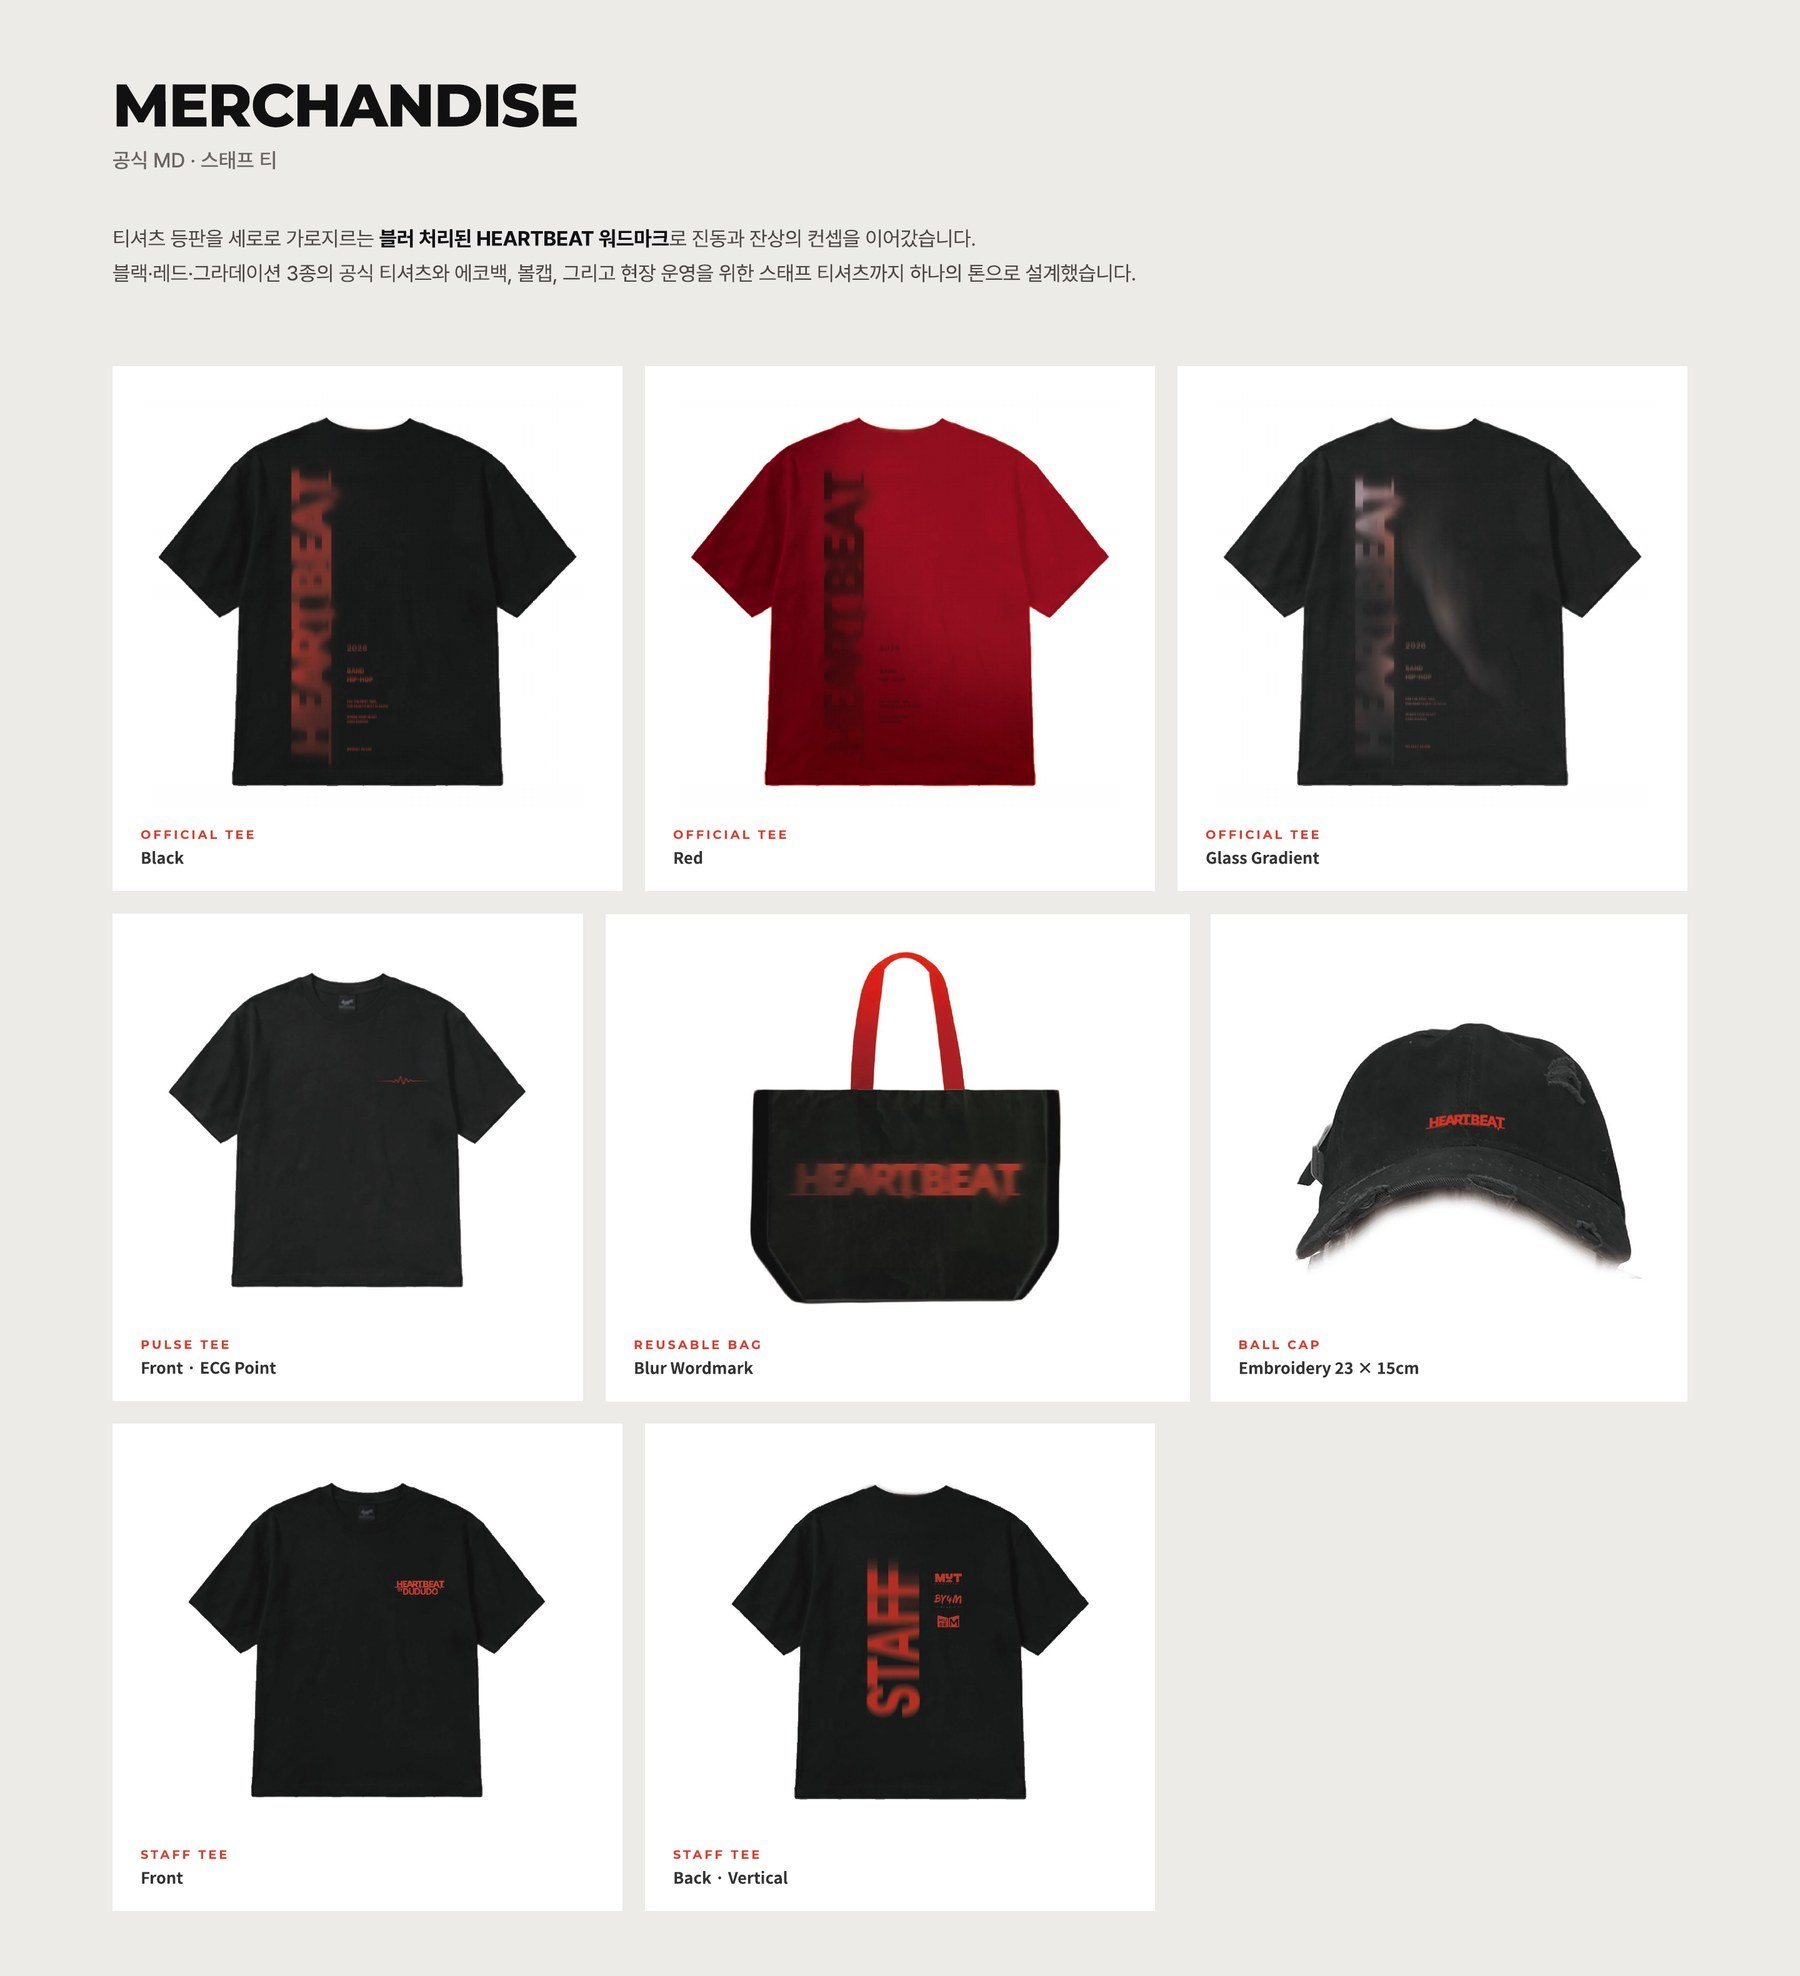
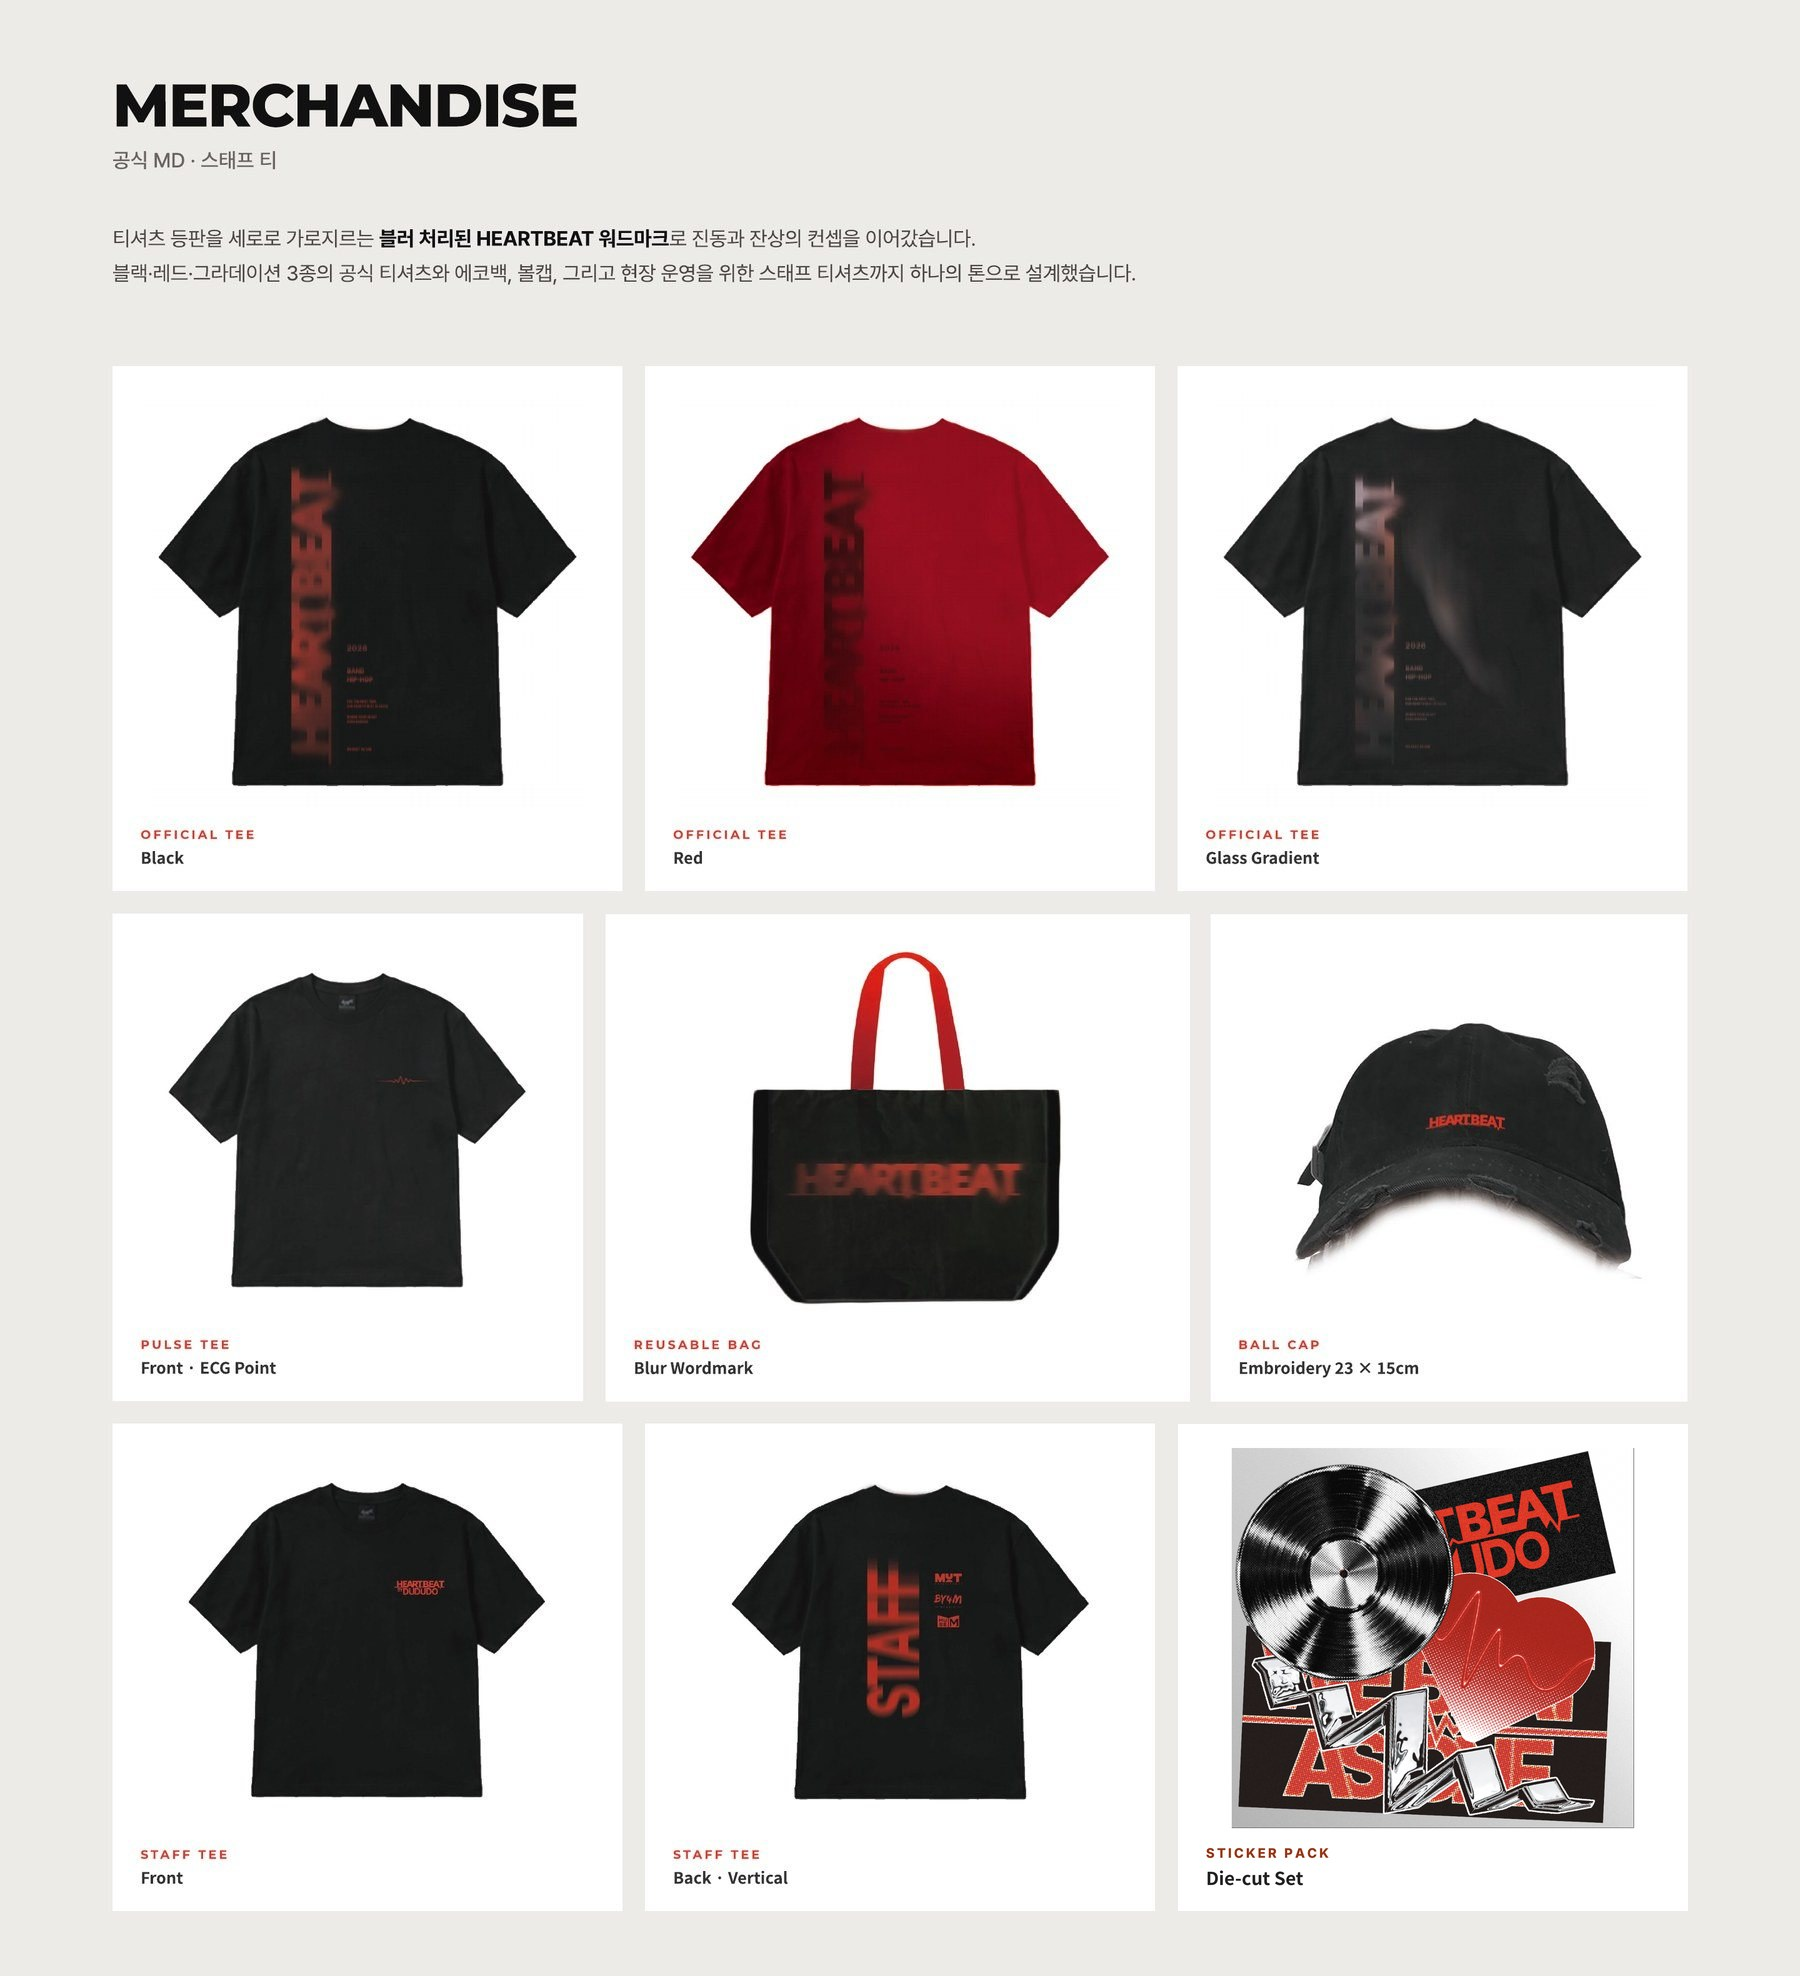
HEARTBEAT: sticker pack moved into merch grid; add Hologram Zone to On-site
Claude-Session: https://claude.ai/code/session_013oSDXvmgYoZt2EAcoYnXYj

Changed region(s): [[0.6844, 0.71, 0.9022, 0.957]]

diff --git a/index.html b/index.html
@@ -3967,6 +3967,22 @@
   var HBS_ZONES = ['외부','F&B존','입장 게이트','티켓존','내부 1F','내부 B1F','출력물'];
   /* keep long tent/railing banners together at the end of each zone so they pair up in short rows */
   HBS_ITEMS = HBS_ITEMS.map(function(r, i){ return [r, i]; }).sort(function(x, y){ var zx = HBS_ZONES.indexOf(x[0][0]), zy = HBS_ZONES.indexOf(y[0][0]); if (zx !== zy) return zx - zy; var wx = x[0][6] > 3.4 ? 1 : 0, wy = y[0][6] > 3.4 ? 1 : 0; return wx - wy || x[1] - y[1]; }).map(function(p){ return p[0]; });
+  /* HEARTBEAT · Hologram zone: booth exterior sheet design + a pre-event test of the
+     inner playback image on the real hologram unit. Design stage, so captions say so. */
+  var hbHoloBlock = {
+    custom: '<div class="cosmos-block">' +
+      '<div class="cosmos-head">' +
+        '<div class="cosmos-eyebrow">On-site · Hologram Zone</div>' +
+        '<h3 class="cosmos-title">HOLOGRAM ZONE</h3>' +
+        '<p class="cosmos-copy">홀로그램 부스의 외부 시트지를 디자인하고, 기기 안에서 송출될 영상 이미지도 제작했습니다. 행사 전에 실제 홀로그램 기기에 넣어 송출 화면을 미리 테스트했고, 부스 시트지는 현재 제작 단계입니다.</p>' +
+      '</div>' +
+      '<div class="cx-print">' +
+        '<figure class="cx-print-item"><div class="cx-print-img"><img src="' + HB + 'hb-holo-test.jpg" alt="홀로그램 기기에 내부 송출 영상을 넣어 테스트한 사진" loading="lazy" decoding="async"></div><figcaption><b>HOLOGRAM UNIT · TEST</b>기기 내부 송출 영상 이미지를 미리 넣어 확인한 테스트 사진</figcaption></figure>' +
+        '<figure class="cx-print-item"><div class="cx-print-img is-sheet"><img src="' + HB + 'hb-holo-sheet.jpg" alt="홀로그램 부스 외부 시트지 디자인" loading="lazy" decoding="async"></div><figcaption><b>BOOTH SHEET · DESIGN</b>홀로그램 부스 외부 시트지 디자인 (제작 진행 중)</figcaption></figure>' +
+      '</div>' +
+    '</div>'
+  };
+
   var hbSiteBlock = { custom: (function(){
     var chips = '<button type="button" class="hbs-chip is-on" data-z="*">ALL <i>' + HBS_ITEMS.length + '</i></button>' +
       HBS_ZONES.map(function(z){ var n = HBS_ITEMS.filter(function(r){ return r[0] === z; }).length;
@@ -4027,10 +4043,10 @@
           cover:HB + "t-kv.jpg", coverPos:"35% 50%", show:[HB + "hb-keyvisual.jpg", dududoMotionBlock] },
         { id:"hb-pr", eyebrow:"PART 03", title:"PROMOTION", sum:"데이별 SNS 포스터, CD 티저와 유튜브 플레이리스트 썸네일, 예매처 상세페이지, 더현대 쇼룸 프로모션", period:"", tools:"",
           cover:HB + "t-promo.jpg", coverPos:"40% 30%", show:[HB + "hb-sns.jpg", dududoCdYtBlock, HB + "hb-ticket.jpg", dududoShowroomBlock] },
-        { id:"hb-md", eyebrow:"PART 04", title:"MERCHANDISE", sum:"블러 워드마크 공식 티셔츠 3종·리유저블백·볼캡·스태프 티, 다이컷 스티커 팩", period:"", tools:"",
-          cover:HB + "t-md.jpg", coverPos:"50% 40%", show:[HB + "hb-merch.jpg", dhStickerPackBlock] },
-        { id:"hb-os", eyebrow:"PART 05", title:"ON-SITE", sum:"포토월과 입체 로고 조형물, 7개 구역 46종의 현장 출력물, 날짜×좌석 4종 컬러 시스템의 입장 팔찌", period:"", tools:"",
-          cover:HB + "t-onsite.jpg", coverPos:"50% 50%", show:[HB + "hb-onsite.jpg", hbSiteBlock, HB + "hb-wristband.jpg"] }
+        { id:"hb-md", eyebrow:"PART 04", title:"MERCHANDISE", sum:"블러 워드마크 공식 티셔츠 3종·리유저블백·볼캡·스태프 티·다이컷 스티커 팩", period:"", tools:"",
+          cover:HB + "t-md.jpg", coverPos:"50% 40%", show:[HB + "hb-merch.jpg"] },
+        { id:"hb-os", eyebrow:"PART 05", title:"ON-SITE", sum:"포토월과 입체 로고 조형물, 7개 구역 46종의 현장 출력물, 홀로그램 존, 날짜×좌석 4종 컬러 시스템의 입장 팔찌", period:"", tools:"",
+          cover:HB + "t-onsite.jpg", coverPos:"50% 50%", show:[HB + "hb-onsite.jpg", hbSiteBlock, hbHoloBlock, HB + "hb-wristband.jpg"] }
       ],
       tail:["images/dududo-case/dh-09-outro.jpg"] },
     { group:"Branding & Art Direction", key:"cosmos", category:"Exhibition Art Direction · Key Visual · Space Graphics · MD · Digital", title:"COSMOS: BIGBANG 20주년 기념 전시 아트 디렉션", idea:"무한(∞) 모티프로 이은 전시의 모든 접점", forms:["Key Visual", "Space", "VMD", "MD", "Digital"], year:"2026",
